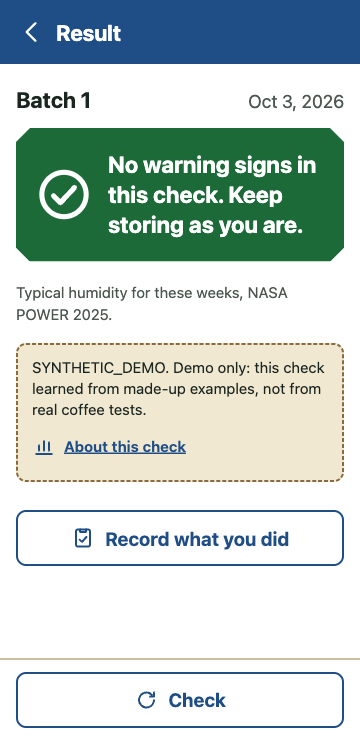
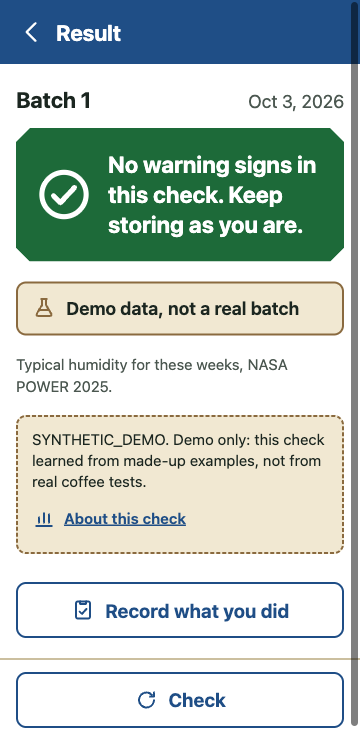
Twi pass at 360 px, Copy SMS announcement, Reload label, offline rerun
Twi: the metrics table no longer splits a header mid-word (overflow-wrap
break-word on the table), and languages without browser date formats, Twi among
them, get numeric day-first dates instead of English month names. Copy SMS now
shows and announces sms_copied through a polite live region. The error-screen
reload button carries the documented hard-coded aria-label Reload. The offline
check is rerun against tree-v2-9b83270 with English and Twi, and the private
network example is gone from offline-check.md.

Changed region(s): [[0.0306, 0.0, 1.0, 0.9946], [0.1833, 0.8081, 0.825, 0.8703]]

diff --git a/web/app.js b/web/app.js
@@ -287,6 +287,19 @@ export function routeHash(view, param = null) {
   return param === null ? `#/${view}` : `#/${view}/${encodeURIComponent(param)}`;
 }
 
+// Day first, as dates are written in Ghana, and with no month names, so no language is needed.
+export function numericDate(date) {
+  return `${date.getDate()}/${date.getMonth() + 1}/${date.getFullYear()}`;
+}
+
+export function hasDateFormats(code) {
+  try {
+    return Intl.DateTimeFormat.supportedLocalesOf([code]).length > 0;
+  } catch {
+    return false;
+  }
+}
+
 export function localDateString(date) {
   const pad = number => String(number).padStart(2, '0');
   return `${String(date.getFullYear()).padStart(4, '0')}-${pad(date.getMonth() + 1)}-${pad(date.getDate())}`;
@@ -397,6 +410,9 @@ class App {
   formatDate(isoTimestamp) {
     const date = new Date(isoTimestamp);
     if (Number.isNaN(date.getTime())) return '';
+    // Browsers ship no date formats for some languages (Twi among them) and would fall back to English
+    // month names, so those languages get a numeric date instead.
+    if (!hasDateFormats(this.language.code)) return numericDate(date);
     try {
       return new Intl.DateTimeFormat(this.language.code, { day: 'numeric', month: 'short', year: 'numeric' }).format(date);
     } catch {
@@ -801,21 +817,32 @@ class App {
     const text = this.t('sms_template', { batch_label: batch.label });
     const draft = h('textarea', { class: 'sms-text', readonly: true, rows: 4, 'aria-labelledby': 'sms-label' });
     draft.value = text;
+    const label = h('span', { text: this.t('button_copy_sms') });
     const copy = h('button', { class: 'button button-primary sms-copy', type: 'button' },
-      icon('copy', 'when-ready'), icon('check', 'when-copied'), h('span', { text: this.t('button_copy_sms') }));
-    copy.addEventListener('click', () => this.copySms(text, copy, draft));
+      icon('copy', 'when-ready'), icon('check', 'when-copied'), label);
+    // Present before anything is copied, so a screen reader is already listening when it changes.
+    const announcement = h('p', { class: 'visually-hidden', role: 'status', 'aria-live': 'polite' });
+    copy.addEventListener('click', () => this.copySms(text, { button: copy, label, announcement, draft }));
     return h('section', { class: 'sms' },
       h('p', { class: 'sms-label', id: 'sms-label' }, icon('message'), h('span', { text: this.t('sms_not_sent') })),
       draft,
-      copy);
+      copy,
+      announcement);
   }
 
-  async copySms(text, button, draft) {
+  async copySms(text, { button, label, announcement, draft }) {
     try {
       if (!navigator.clipboard) throw new Error('clipboard unavailable');
       await navigator.clipboard.writeText(text);
+      const copied = this.t('sms_copied');
       button.classList.add('copied');
-      setTimeout(() => button.classList.remove('copied'), SECONDS_TO_SHOW_COPIED * 1000);
+      label.textContent = copied;
+      announcement.textContent = copied;
+      setTimeout(() => {
+        button.classList.remove('copied');
+        label.textContent = this.t('button_copy_sms');
+        announcement.textContent = '';
+      }, SECONDS_TO_SHOW_COPIED * 1000);
     } catch {
       draft.focus();
       draft.select();
@@ -1038,7 +1065,10 @@ class App {
 }
 
 // Without a messages file there is no approved text to show, so the failure screen is an icon
-// and a reload button only.
+// and a reload button. The button's hard-coded "Reload" label is the one documented exception to the
+// messages rule: docs/contracts_v2.md#messages.
+const RELOAD_LABEL = 'Reload';
+
 function renderFatal(error) {
   console.error(error);
   const main = document.getElementById('main');
@@ -1048,7 +1078,9 @@ function renderFatal(error) {
   dock.hidden = true;
   main.replaceChildren(h('div', { class: 'fatal' },
     icon('alert', 'fatal-mark'),
-    h('button', { class: 'button button-secondary', type: 'button', onclick: () => location.reload() }, icon('reload'))));
+    h('button', {
+      class: 'button button-secondary', type: 'button', 'aria-label': RELOAD_LABEL, lang: 'en', onclick: () => location.reload(),
+    }, icon('reload'))));
 }
 
 function registerServiceWorker() {

diff --git a/web/styles.css b/web/styles.css
@@ -58,6 +58,19 @@ body {
   overflow-wrap: anywhere;
 }
 
+/* Read by screen readers, not shown: used for the Copy SMS announcement. */
+.visually-hidden {
+  position: absolute;
+  width: 1px;
+  height: 1px;
+  margin: -1px;
+  padding: 0;
+  border: 0;
+  overflow: hidden;
+  clip: rect(0 0 0 0);
+  white-space: nowrap;
+}
+
 .sprite {
   position: absolute;
   width: 0;
@@ -761,6 +774,8 @@ main:focus {
   width: 100%;
   border-collapse: collapse;
   font-size: 16px;
+  /* "anywhere" would let the table squeeze a column below one word and split it mid-word. */
+  overflow-wrap: break-word;
 }
 
 .metrics th,

diff --git a/web/sw.js b/web/sw.js
@@ -6,7 +6,7 @@
 // fetch a new tree, message file or script.
 
 const CACHE_PREFIX = 'sankofafresh-';
-const CACHE_VERSION = '38f6e794e4510117';
+const CACHE_VERSION = '53bcc1757d374b7d';
 const CACHE_NAME = `${CACHE_PREFIX}${CACHE_VERSION}`;
 const PRECACHE = [
   'app.js',

diff --git a/evidence/offline-check.md b/evidence/offline-check.md
@@ -2,54 +2,53 @@
 
 | Part | Status |
 |---|---|
-| Local browser check: load once, stop the server, reload and use the app | PASSED on 3 October 2026, steps below |
-| Deploy to the static host | NOT DONE |
-| Real phone in airplane mode, including a reload | NOT DONE |
+| Local browser check: load once, stop the server, reload and use the app | PASSED on 3 October 2026, against the current tree, steps below |
+| Deploy to the static host | NOT DONE: the public link isn't live yet |
+| Real phone in airplane mode, including a reload | NOT DONE: waits for the public link |
 
-AC06 and AC07 stay NOT VERIFIED until the phone steps are done; the local check shows the service worker does its job in one desktop browser.
+AC06 and AC07 stay NOT VERIFIED until the phone steps are done. The local check shows the service worker works in one desktop browser.
 
 ## Local browser check
 
-- Code: branch `17-service-worker` merged with main at 286e662, service worker cache `sankofafresh-6353f04814539408`, model `tree-v2-b7a4e1c`.
-- Browser: Chromium driven by Playwright (user agent Chrome/154), viewport 360 by 740.
+- Code: branch `19-twi-pass` from main at cd865ba, service worker cache `sankofafresh-53bcc1757d374b7d`, model `tree-v2-9b83270` (115 nodes, abstain cut 0.442), languages English and Twi.
+- Browser: Chromium 154 driven by Playwright, viewport 360 by 740, on a desktop computer.
 - Server: `cd web && python3 -m http.server 8770 --bind 127.0.0.1`, so `web/` is the site root. `http://127.0.0.1` counts as a secure context, so the service worker and Web Crypto both run.
 
 | Step | What was done | Result |
 |---|---|---|
 | 1 | Unregister any service worker, delete caches and clear localStorage for the origin | Clean start |
-| 2 | Open `http://127.0.0.1:8770/index.html` once, online (20:16:22 UTC) | Consent screen. The page is controlled by `sw.js`, and cache `sankofafresh-6353f04814539408` holds 17 files: app.js, canonical.js, contract.json, features.js, the three icons, index.html, manifest.webmanifest, messages.en.json, messages.tw.draft.json, metrics.json, storage.js, styles.css, tree.js, tree.json, weather.json |
-| 3 | Stop the server (20:16:28 UTC) | `curl` to the server exits with code 7, connection refused |
+| 2 | Open `http://127.0.0.1:8770/index.html` once, online (22:56:27 UTC) | Consent screen. The page is controlled by `sw.js`, and cache `sankofafresh-53bcc1757d374b7d` holds 18 files: app.js, canonical.js, contract.json, demo_batches.json, features.js, the three icons, index.html, manifest.webmanifest, messages.en.json, messages.tw.json, metrics.json, storage.js, styles.css, tree.js, tree.json, weather.json |
+| 3 | Stop the server (22:56:34 UTC) | `curl` to the server exits with code 7, connection refused |
 | 4 | Reload the page | Consent screen in English, no error notice |
-| 5 | Continue, then run four checks | See the table below; each opened its result screen |
-| 6 | Reload again and open the batch list | All four batches listed with their bands and dates |
-| 7 | Open About this check | Model `tree-v2-b7a4e1c`, its hash, file sizes 182 kB in total (measured from the 17 cached files), and the held-out metrics from `metrics.json` against the baseline, all read from the cache |
-
-Checks run with the server stopped. Batches 1 to 3 are the video's demo batches from `evidence/demo_batches.json`; Batch 4 adds a red case.
+| 5 | Continue, then Settings > Load demo batches | Batches 1 to 3 added, marked "Demo data, not a real batch" |
+| 6 | Run two more checks through the form | See the table below |
+| 7 | Switch to Twi in Settings and reload | The app reloads in Twi; `messages.tw.json` came from the cache |
+| 8 | Open the batch list, switch back to English, reload again | All five batches listed with their bands |
+| 9 | Open About this check | Model `tree-v2-9b83270`, its hash, and file sizes 198.6 kB in total, measured from the 18 cached files, with the held-out metrics |
 
 | Batch | Answers | Result |
 |---|---|---|
-| Batch 1 | dried 12 days, not rewetted, raised, not musty, dry, stored 20 days from 2025-03-01 | Green, no reasons, no action, no SMS |
-| Batch 2 | dried 8 days, rewetted, raised, not musty, damp, stored 10 days from 2025-01-15 | Amber; reason "Your hand or bite test did not find the beans dry."; action re-dry; SMS draft labelled SIMULATED_NOT_SENT |
-| Batch 3 | as Batch 1, hand test "Don't know" | Not sure; reason "One question was answered "Don't know"."; action take a sample; SMS draft |
-| Batch 4 | dried 4 days, not rewetted, raised, musty, damp, stored 30 days from 2025-01-05 | Red; reasons damp hand test and musty smell; action re-dry; SMS draft |
+| Batch 1 (demo) | dried 12 days, not rewetted, raised, not musty, dry, stored 20 days from 2025-03-01 | Green, no reasons, no action, no SMS |
+| Batch 2 (demo) | dried 8 days, rewetted, raised, not musty, damp, stored 10 days from 2025-01-15 | Amber; reason "Your hand or bite test did not find the beans dry."; action re-dry; SMS draft labelled SIMULATED_NOT_SENT |
+| Batch 3 (demo) | as Batch 1, hand test "Don't know" | Not sure; reason "One question was answered "Don't know"."; action take a sample; SMS draft |
+| Batch 4 | dried 4 days, not rewetted, raised, musty, damp, stored 30 days from 2025-01-05 | Amber; reasons damp hand test and musty smell; action re-dry. This batch was red under the previous depth-4 tree |
+| Batch 5 | dried 3 days, rewetted, on the floor, musty, damp, stored 30 days from 2025-01-05 | Red; reasons damp hand test and musty smell; action re-dry; SMS draft |
 
-Network log for steps 4 to 7 (every response the page received): 32 responses, all served by the service worker. 30 were 200. 2 were 404s from the service worker for `audio/index.json`, which is not in this app version (no audio yet), so there is no Play button. No request reached the network.
+Network log for steps 4 to 9 (every response the page received): 54 responses, all served by the service worker. 51 were 200. 3 were 404s from the worker for `audio/index.json`, which is not in this app version (no audio yet), so there is no Play button. No request reached the network. The log also holds one test probe of my own for `sw.js`, which the worker answered with a 404; it is not app traffic and isn't counted above.
 
-An earlier run the same day, before `metrics.json` shipped (cache `sankofafresh-883356923ec6e172`, 16 files), passed the same way.
+Screenshots: `evidence/screens/17-offline-reload-consent.png`, `17-offline-result-green.png`, `17-offline-result-amber.png`, `17-offline-result-red.png`, `17-offline-result-not-sure.png`, `17-offline-batches.png`, `17-offline-batches-tw.png`, `17-offline-evidence.png`.
 
-Update path, checked separately the same day: with the previous version (`sankofafresh-af307cdd19e47f99`) installed, loading the app online installed the new version, replaced the cache, and deleted the old one.
-
-Screenshots: `evidence/screens/17-offline-reload-consent.png`, `17-offline-result-green.png`, `17-offline-result-amber.png`, `17-offline-result-red.png`, `17-offline-result-not-sure.png`, `17-offline-batches.png`, `17-offline-evidence.png`.
+Earlier runs on the same day, with the depth-4 tree `tree-v2-b7a4e1c` (caches `sankofafresh-883356923ec6e172` and `sankofafresh-6353f04814539408`), passed the same way. The update path from an older cache version to a newer one was also checked: the new version replaced the old cache and deleted it.
 
 ## Phone check (NOT DONE)
 
-1. NOT DONE: deploy `web/` to the static host chosen in #1, over https.
+1. NOT DONE: deploy `web/` to the static host over https, once the public link exists.
 2. NOT DONE: on the phone, open the app once online. Open About this check; File sizes shows a total only once the offline cache is complete.
 3. NOT DONE: turn on airplane mode, close the browser completely, reopen the app and reload.
-4. NOT DONE: run a check that gives each band, and a "Don't know" check.
+4. NOT DONE: load the demo batches, run a check that gives each band and a "Don't know" check, and switch to Twi.
 5. NOT DONE: record the screen, and save the network log through remote debugging (Chrome `chrome://inspect` or Safari Web Inspector).
 
 ## Limits found during the check
 
-- Plain http on a LAN address (for example `http://192.168.1.20:8000`) is not a secure context. There, the browser runs no service worker and offers no Web Crypto, so the app refuses the model. Use https, or `localhost` or `127.0.0.1` on the same machine.
+- Plain http on a local network address is not a secure context. There, the browser runs no service worker and offers no Web Crypto, so the app refuses the model. Use https, or `localhost` or `127.0.0.1` on the same machine.
 - The cache only changes when `web/sw.js` changes. After any change to a file in `web/`, `PRECACHE` and `CACHE_VERSION` in `web/sw.js` must be updated, or installed phones keep the old files. `node --test tests/sw.test.mjs` fails until they are and prints the exact lines to use.

diff --git a/evidence/demo/README.md b/evidence/demo/README.md
@@ -12,6 +12,8 @@ Captured on 3 October 2026 from `web/` at main 815d1d7 (identical to the capture
 | `06-result-not-sure.png` | Batch 3, hand test "Don't know": not sure, reason and action to take a sample |
 | `07-sms-draft.png` | Batch 2's SMS draft labelled SIMULATED_NOT_SENT, with Copy SMS |
 | `08-evidence-top.png`, `09-evidence-full.png` | About this check: model version, tree hash, file sizes and the held-out metrics against the humidity-only baseline |
+| `10-consent-tw.png` | First-run consent in Twi (added later from branch `19-twi-pass`, same tree) |
+| `11-result-amber-tw.png` | Batch 2 in Twi: amber, the demo data label, the reason and the action; dates in Twi mode are numeric (3/10/2026) because browsers have no Twi date formats |
 | `demo-flow.mp4` | Screen recording, 30.6 s, H.264, no audio: from Settings, Load demo batches, then the three results, the SMS draft and Copy SMS, the check form and the evidence screen |
 
 The answers behind the three demo batches are in `evidence/demo_batches.json`, and the app loads them from `web/demo_batches.json`. For the voice-over: the reason shown on the amber batch is the damp hand test. The app shows reasons from the tree's decision path, so it doesn't claim the rain caused the result.
